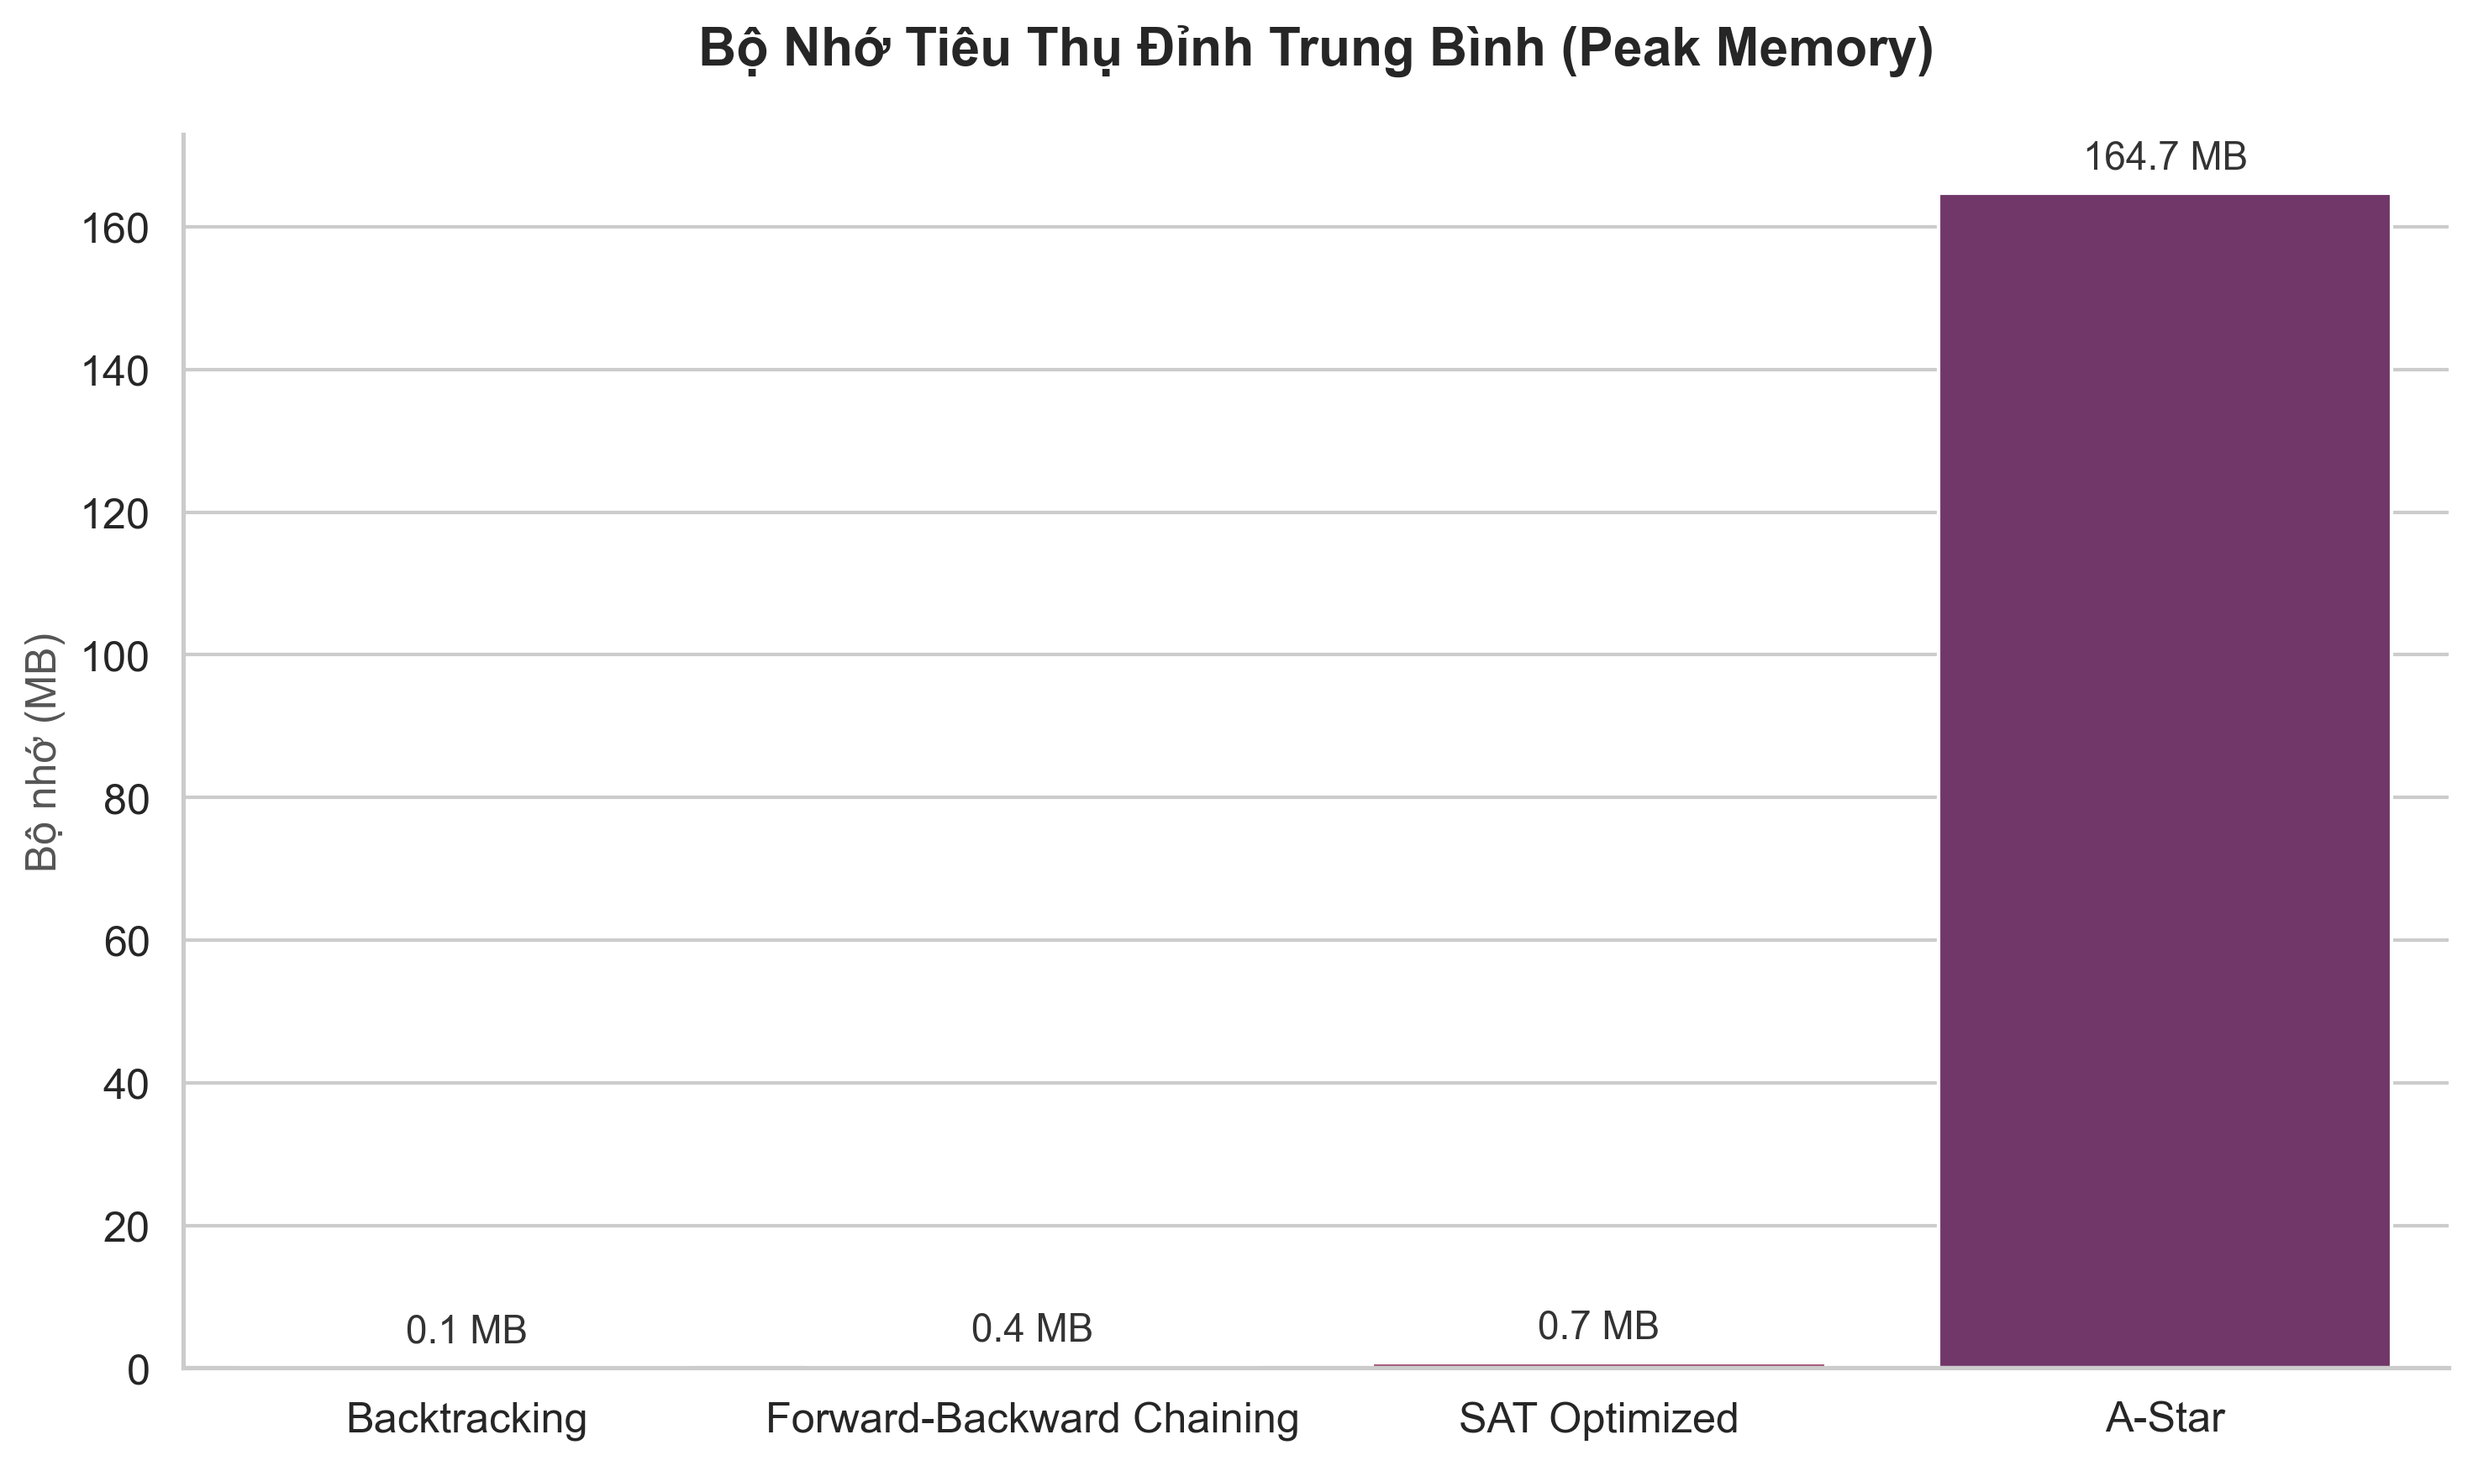
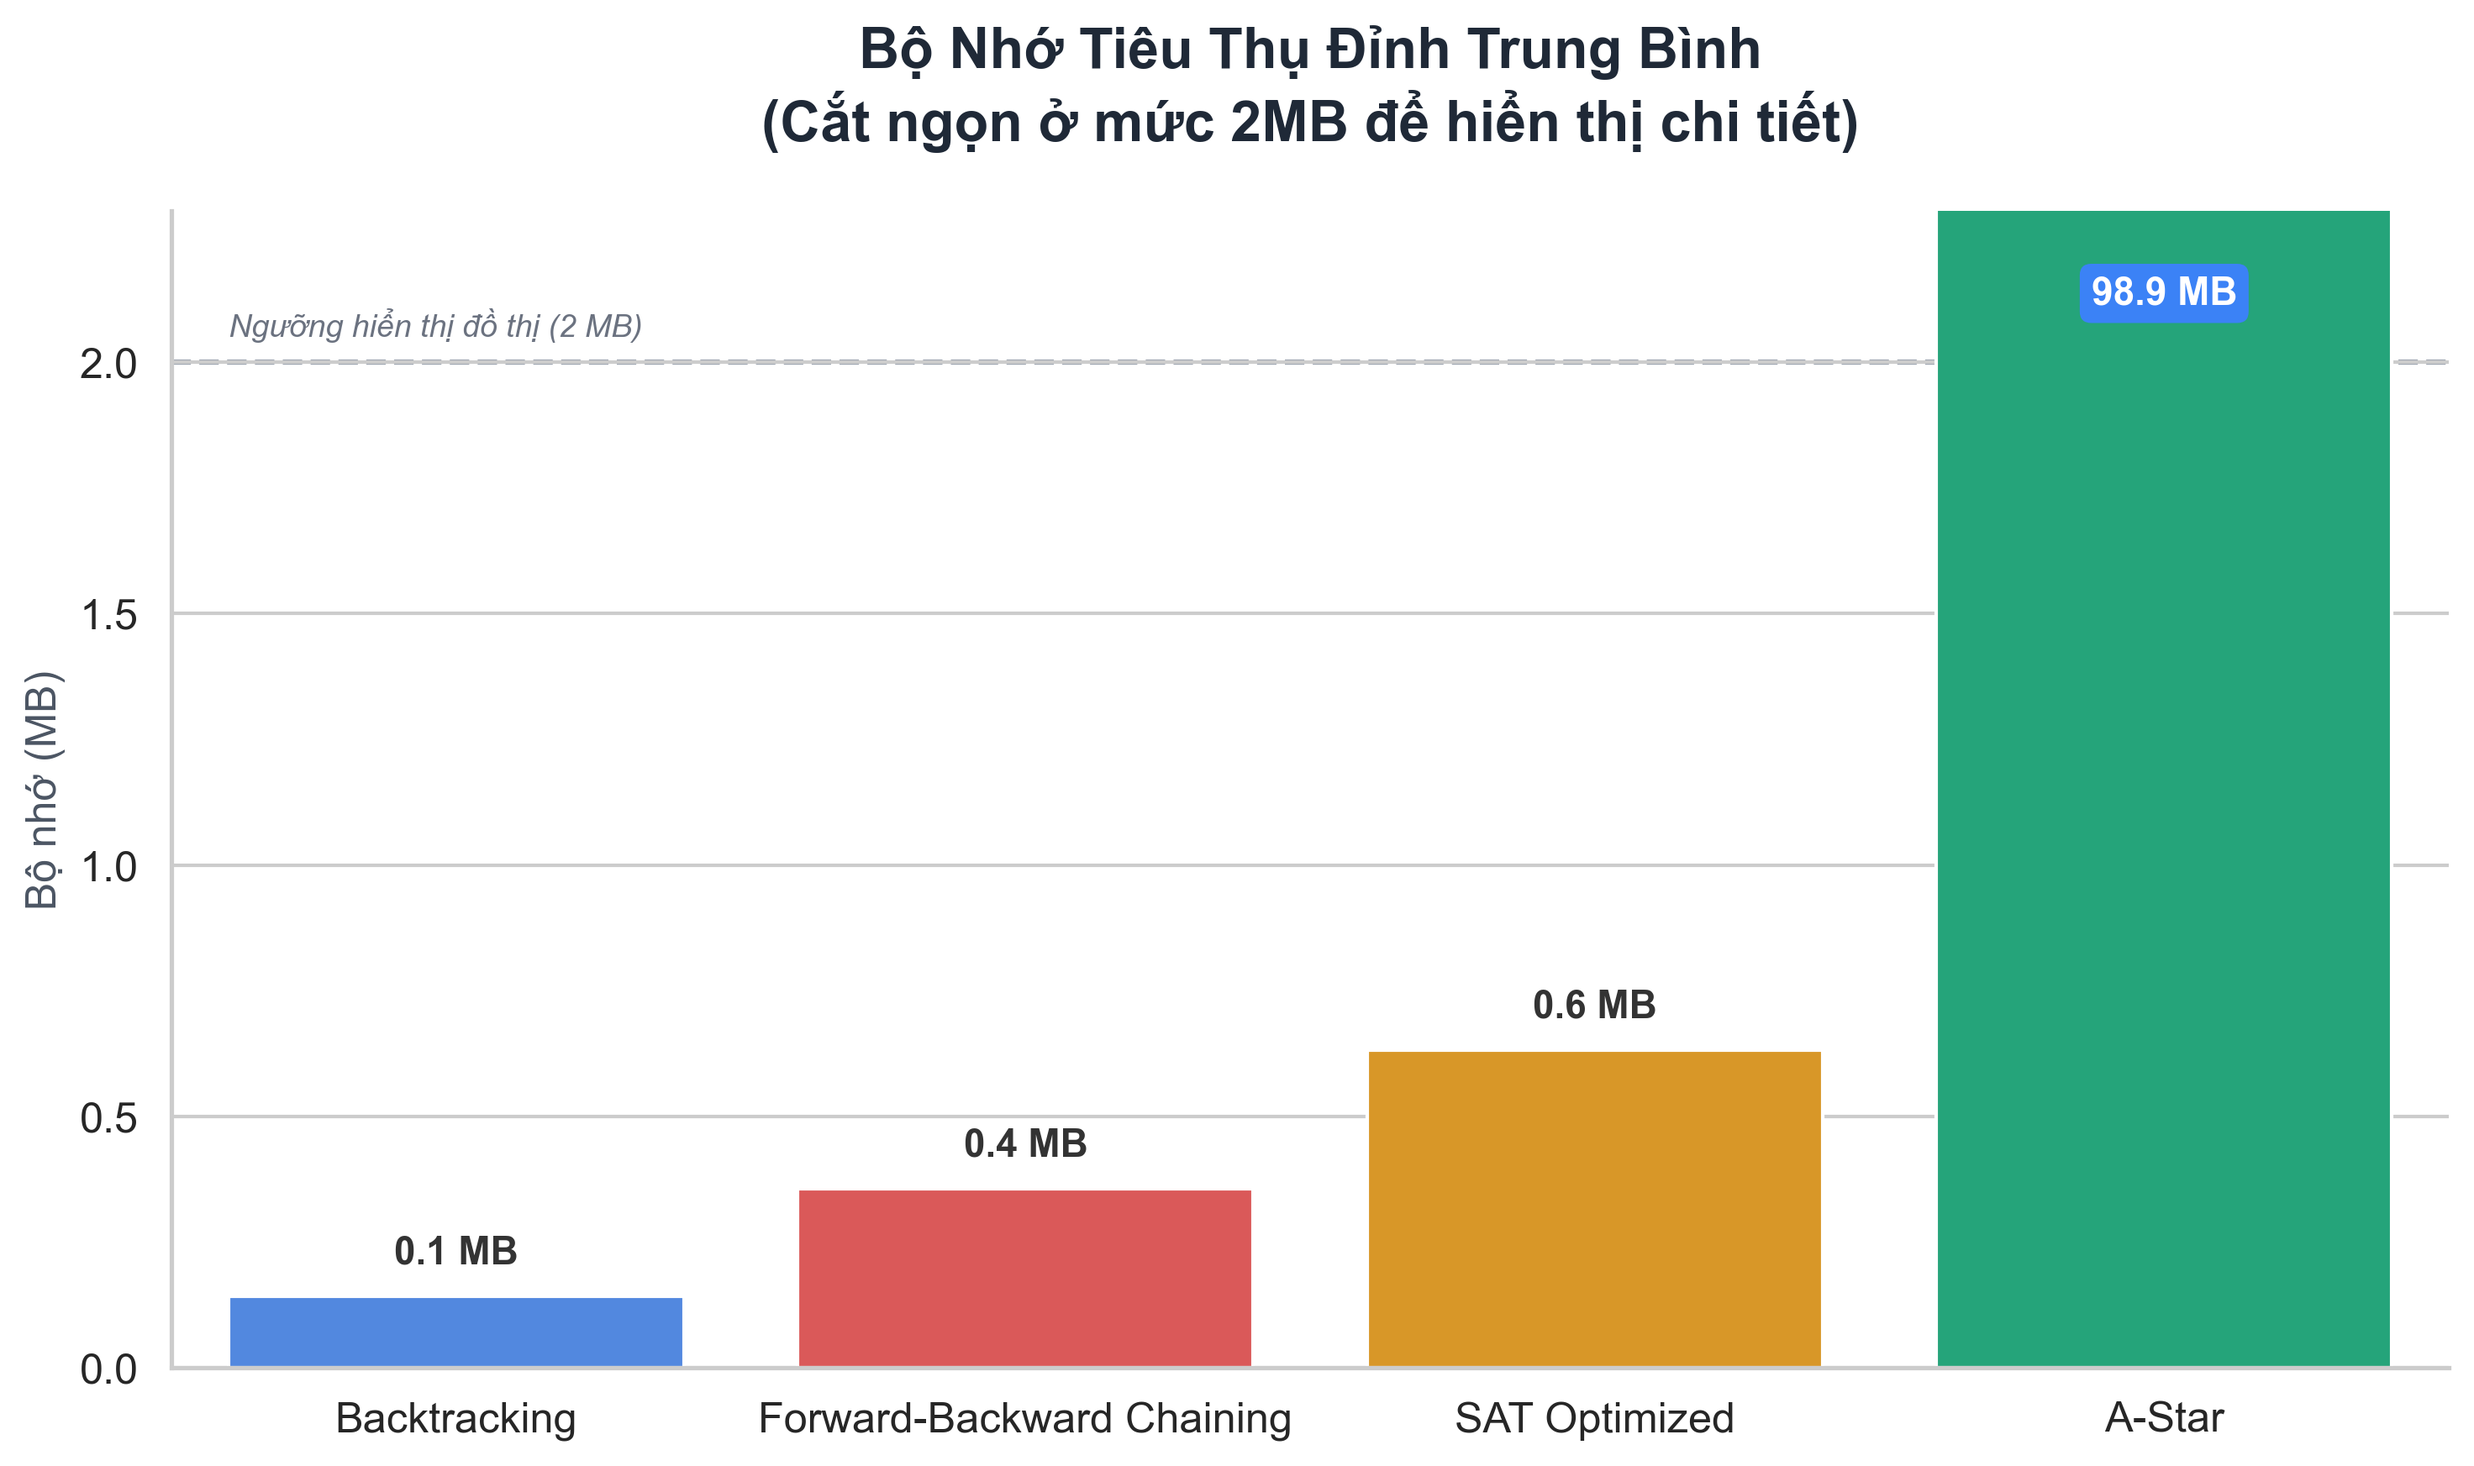
help

diff --git a/Source/plot_benchmark.py b/Source/plot_benchmark.py
@@ -12,146 +12,141 @@ def plot_benchmark_results(csv_filename='Benchmark_Results.csv'):
     # Đọc dữ liệu từ file CSV
     df = pd.read_csv(csv_filename)
 
-    # ĐIỂM CHẠM THIẾT KẾ 1: Làm sạch dữ liệu trục X
-    # Rút gọn 'input-01.txt' thành '1', '2'... giúp trục X thoáng hơn
+    # Rút gọn tên Test Case
     if 'File Name' in df.columns:
         df['Test Case'] = df['File Name'].str.replace('input-', '', regex=False).str.replace('.txt', '', regex=False)
     else:
-        df['Test Case'] = df.index # Backup nếu không có cột File Name
+        df['Test Case'] = df.index
 
-    # Thiết lập phong cách thiết kế hiện đại, tối giản (Minimalist)
+    # =========================================================
+    # CẤU HÌNH DESIGN SYSTEM
+    # =========================================================
     sns.set_theme(style="whitegrid", font_scale=1.1)
-    # Tùy chỉnh thêm: Bỏ viền đồ thị (Spines) để trông thanh thoát hơn
     plt.rcParams['axes.spines.top'] = False
     plt.rcParams['axes.spines.right'] = False
+    plt.rcParams['font.family'] = 'sans-serif'
     
+    # Hệ màu phân cực
+    color_map = {
+        'SAT Optimized': '#10B981',             # Xanh ngọc
+        'A-Star': '#3B82F6',                    # Xanh dương
+        'Forward-Backward Chaining': '#F59E0B', # Vàng cam
+        'Backtracking': '#EF4444'               # Đỏ
+    }
+    
+    unique_algos = df['Algorithm'].unique()
+    palette = [color_map.get(algo, '#888888') for algo in unique_algos]
+
     output_dir = 'Charts'
     os.makedirs(output_dir, exist_ok=True)
 
-    print("Đang vẽ biểu đồ chuẩn Designer...")
+    print("Đang render biểu đồ...")
 
     # =========================================================
     # 1. Biểu đồ cột: Thời gian chạy trung bình 
     # =========================================================
     plt.figure(figsize=(10, 6))
-    
-    # Tính trung bình để vẽ
     avg_time = df.groupby('Algorithm')['Time (seconds)'].mean().reset_index()
-    avg_time = avg_time.sort_values(by='Time (seconds)') # Sắp xếp từ nhanh nhất đến chậm nhất
+    avg_time = avg_time.sort_values(by='Time (seconds)')
     
-    ax1 = sns.barplot(data=avg_time, x='Algorithm', y='Time (seconds)', palette='crest')
+    ax1 = sns.barplot(data=avg_time, x='Algorithm', y='Time (seconds)', palette=palette, order=avg_time['Algorithm'])
     
-    # ĐIỂM CHẠM THIẾT KẾ 2: Thêm nhãn số liệu trực tiếp lên cột (Data labels)
     for container in ax1.containers:
-        ax1.bar_label(container, fmt='%.3f s', padding=5, fontsize=11, color='#333333')
+        ax1.bar_label(container, fmt='%.3f s', padding=5, fontsize=11, fontweight='bold', color='#333')
 
-    plt.title('Thời Gian Chạy Trung Bình (Càng thấp càng tốt)', fontsize=15, fontweight='bold', pad=20)
-    plt.ylabel('Thời gian (giây)', fontsize=12, color='#555555')
-    plt.xlabel('', fontsize=12) # Bỏ chữ 'Thuật toán' vì người xem tự hiểu
+    plt.title('Thời Gian Chạy Trung Bình\n(Càng thấp càng tốt)', fontsize=16, fontweight='bold', pad=20, color='#1F2937')
+    plt.ylabel('Thời gian (giây)', fontsize=12, color='#4B5563')
+    plt.xlabel('') 
     plt.tight_layout()
     plt.savefig(os.path.join(output_dir, 'Average_Time_Chart.png'), dpi=300, bbox_inches='tight')
     plt.close()
 
     # =========================================================
-    # 2. Biểu đồ cột: Bộ nhớ tiêu thụ (RAM) trung bình
+    # 2. Biểu đồ cột: Bộ nhớ tiêu thụ (RAM) trung bình - CẬP NHẬT TRẦN 2MB
     # =========================================================
     plt.figure(figsize=(10, 6))
-    
     avg_mem = df.groupby('Algorithm')['Memory Peak (MB)'].mean().reset_index()
     avg_mem = avg_mem.sort_values(by='Memory Peak (MB)')
     
-    ax2 = sns.barplot(data=avg_mem, x='Algorithm', y='Memory Peak (MB)', palette='flare')
+    ax2 = sns.barplot(data=avg_mem, x='Algorithm', y='Memory Peak (MB)', palette=palette, order=avg_mem['Algorithm'])
     
-    for container in ax2.containers:
-        ax2.bar_label(container, fmt='%.1f MB', padding=5, fontsize=11, color='#333333')
+    MEM_MAX_LIMIT = 2.0
+    ax2.set_ylim(0, MEM_MAX_LIMIT + 0.3) # Dư ra một chút không gian phía trên để đặt Text
 
-    plt.title('Bộ Nhớ Tiêu Thụ Đỉnh Trung Bình (Peak Memory)', fontsize=15, fontweight='bold', pad=20)
-    plt.ylabel('Bộ nhớ (MB)', fontsize=12, color='#555555')
+    # Vẽ đường đứt nét giới hạn 2MB
+    plt.axhline(y=MEM_MAX_LIMIT, color='#9CA3AF', linestyle='--', linewidth=1.5, zorder=0)
+    plt.text(x=-0.4, y=MEM_MAX_LIMIT + 0.05, s='Ngưỡng hiển thị đồ thị (2 MB)', color='#6B7280', fontsize=9, fontstyle='italic')
+
+    # Xử lý Label thông minh cho các cột vượt quá 2MB
+    for i, p in enumerate(ax2.patches):
+        val = p.get_height()
+        algo_name = avg_mem.iloc[i]['Algorithm']
+        bar_color = color_map.get(algo_name, '#888888')
+
+        if val > MEM_MAX_LIMIT:
+            # Nếu vượt trần, ghim thẻ label ở mép trên đồ thị
+            ax2.text(p.get_x() + p.get_width()/2., MEM_MAX_LIMIT + 0.1, f'{val:.1f} MB', 
+                     fontsize=11, fontweight='bold', color='white', ha='center', va='bottom',
+                     bbox=dict(facecolor=bar_color, edgecolor='none', boxstyle='round,pad=0.3'))
+        else:
+            # Nếu dưới trần, hiển thị bình thường
+            ax2.text(p.get_x() + p.get_width()/2., val + 0.05, f'{val:.1f} MB', 
+                     fontsize=11, fontweight='bold', color='#333', ha='center', va='bottom')
+
+    plt.title('Bộ Nhớ Tiêu Thụ Đỉnh Trung Bình\n(Cắt ngọn ở mức 2MB để hiển thị chi tiết)', fontsize=16, fontweight='bold', pad=20, color='#1F2937')
+    plt.ylabel('Bộ nhớ (MB)', fontsize=12, color='#4B5563')
     plt.xlabel('')
     plt.tight_layout()
     plt.savefig(os.path.join(output_dir, 'Average_Memory_Chart.png'), dpi=300, bbox_inches='tight')
     plt.close()
 
     # =========================================================
-    # 3. Biểu đồ đường: Biến động thời gian (Áp dụng Direct Labeling)
+    # 3. Biểu đồ đường: Biến động thời gian - CẬP NHẬT TRẦN 10s
     # =========================================================
-    plt.figure(figsize=(12, 6))
+    plt.figure(figsize=(12, 6.5))
     
-    # Dùng palette màu phân biệt rõ ràng
     ax3 = sns.lineplot(data=df, x='Test Case', y='Time (seconds)', hue='Algorithm', 
-                       marker='o', markersize=8, linewidth=2.5, palette='tab10')
+                       marker='o', markersize=8, linewidth=2.5, palette=palette, hue_order=unique_algos)
     
-    # ĐIỂM CHẠM THIẾT KẾ 3: Direct Labeling - Thay thế Legend bằng Text cuối đường đồ thị
-    ax3.get_legend().remove() # Tắt legend mặc định
+    ax3.get_legend().remove()
     
-    # Xác định điểm cuối cùng của mỗi thuật toán để ghi chú
-    for algo in df['Algorithm'].unique():
-        algo_data = df[df['Algorithm'] == algo]
-        if not algo_data.empty:
-            # Lấy toạ độ x, y cuối cùng
-            last_x_val = algo_data['Test Case'].iloc[-1]
-            last_y_val = algo_data['Time (seconds)'].iloc[-1]
-            
-            # Lấy màu của đường line tương ứng
-            line_color = ax3.lines[list(df['Algorithm'].unique()).index(algo)].get_color()
-            
-            # Chèn text sát bên cạnh điểm cuối cùng
-            plt.text(x=len(algo_data) - 1 + 0.15,  # Nhích sang phải một chút
-                     y=last_y_val, 
-                     s=algo, 
-                     color=line_color, 
-                     fontweight='bold', 
-                     fontsize=11,
-                     va='center')
+    Y_MAX_LIMIT = 10  # Đã giảm từ 50s xuống 10s
+    ax3.set_ylim(-0.5, Y_MAX_LIMIT + 1)
 
-    # Nới rộng trục X để có không gian chứa chữ (tránh bị cắt)
+    plt.axhline(y=Y_MAX_LIMIT, color='#9CA3AF', linestyle='--', linewidth=1.5, zorder=0)
+    plt.text(x=-0.2, y=Y_MAX_LIMIT + 0.2, s='Ngưỡng hiển thị đồ thị (10s)', color='#6B7280', fontsize=9, fontstyle='italic')
+
+    for algo in unique_algos:
+        algo_data = df[df['Algorithm'] == algo].reset_index(drop=True)
+        if algo_data.empty: continue
+            
+        color = ax3.lines[list(unique_algos).index(algo)].get_color()
+        
+        for idx, row in algo_data.iterrows():
+            if row['Time (seconds)'] > Y_MAX_LIMIT:
+                plt.text(x=idx, y=Y_MAX_LIMIT + 0.2, s=f"{row['Time (seconds)']:.0f}s", 
+                         color='white', fontweight='bold', fontsize=9, ha='center', va='bottom',
+                         bbox=dict(facecolor=color, edgecolor='none', boxstyle='round,pad=0.3'))
+
+        last_x_idx = len(algo_data) - 1
+        last_y_val = algo_data['Time (seconds)'].iloc[-1]
+        
+        display_y = min(last_y_val, Y_MAX_LIMIT)
+        
+        plt.text(x=last_x_idx + 0.15, y=display_y, s=algo, 
+                 color=color, fontweight='bold', fontsize=11, va='center')
+
     plt.xlim(-0.5, len(df['Test Case'].unique()) + 1.5)
-
-    plt.title('Biến Động Thời Gian Chạy Qua Các Test Case', fontsize=15, fontweight='bold', pad=20)
-    plt.ylabel('Thời gian (giây)', fontsize=12, color='#555555')
-    plt.xlabel('Test Case', fontsize=12, color='#555555')
+    plt.title('Biến Động Thời Gian Chạy Qua Các Test Case\n(Cắt ngọn ở mức 10s để hiển thị chi tiết)', 
+              fontsize=16, fontweight='bold', pad=20, color='#1F2937')
+    plt.ylabel('Thời gian (giây)', fontsize=12, color='#4B5563')
+    plt.xlabel('Test Case', fontsize=12, color='#4B5563')
+    
     plt.tight_layout()
     plt.savefig(os.path.join(output_dir, 'Time_Per_Testcase_Chart.png'), dpi=300, bbox_inches='tight')
     plt.close()
-    
-    # =========================================================
-    # 4. Biểu đồ cột chồng: Tỷ lệ giải thành công (Success Rate)
-    # =========================================================
-    plt.figure(figsize=(10, 6))
-    
-    # Đảm bảo có cột Status, nếu có 'Success', 'Timeout', 'Fail',...
-    if 'Status' in df.columns:
-        status_counts = df.groupby(['Algorithm', 'Status']).size().unstack(fill_value=0)
-        
-        # ĐIỂM CHẠM THIẾT KẾ 4: Chọn màu sắc mang ý nghĩa (Xanh = Tốt/Thành công, Đỏ/Xám = Lỗi)
-        # Tự động map màu nếu biết trước tên status (ví dụ: 'Success', 'Fail')
-        color_map = []
-        for col in status_counts.columns:
-            if str(col).lower() in ['success', 'passed', 'ok']:
-                color_map.append('#2ecc71') # Xanh lá
-            elif str(col).lower() in ['timeout']:
-                color_map.append('#f1c40f') # Vàng
-            else:
-                color_map.append('#e74c3c') # Đỏ
 
-        if not color_map: # Fallback nếu không khớp tên
-            color_map = sns.color_palette("Set2", len(status_counts.columns))
-
-        ax4 = status_counts.plot(kind='bar', stacked=True, color=color_map, figsize=(10, 6), edgecolor='white')
-        
-        plt.title('Tỷ Lệ Giải Thành Công Của Các Thuật Toán', fontsize=15, fontweight='bold', pad=20)
-        plt.ylabel('Số lượng Test Case', fontsize=12, color='#555555')
-        plt.xlabel('')
-        plt.xticks(rotation=0) # Để nhãn nằm ngang
-        
-        # Sửa lại Legend cho đẹp
-        plt.legend(title='Trạng thái', frameon=False, bbox_to_anchor=(1.05, 1), loc='upper left')
-        
-        plt.tight_layout()
-        plt.savefig(os.path.join(output_dir, 'Success_Rate_Chart.png'), dpi=300, bbox_inches='tight')
-        plt.close()
-
-    print(f"✨ Hoàn tất! Các biểu đồ 'chuẩn Designer' đã được lưu tại '{output_dir}/'")
+    print(f"✨ Hoàn tất! Các biểu đồ đã được lưu tại '{output_dir}/'")
 
 if __name__ == '__main__':
     plot_benchmark_results()
